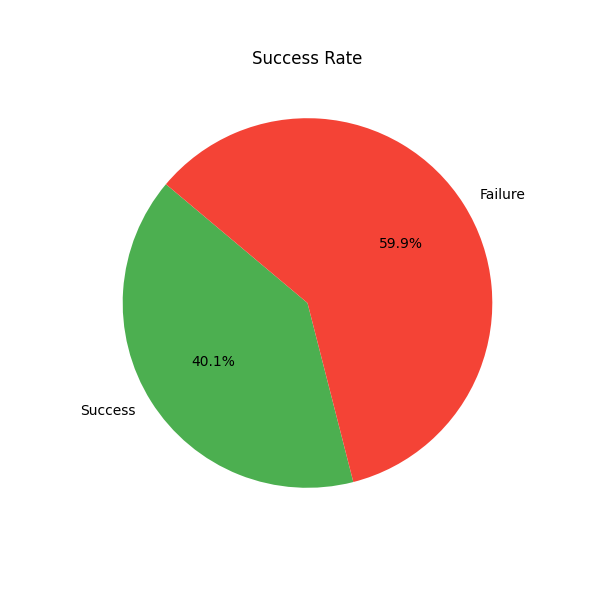
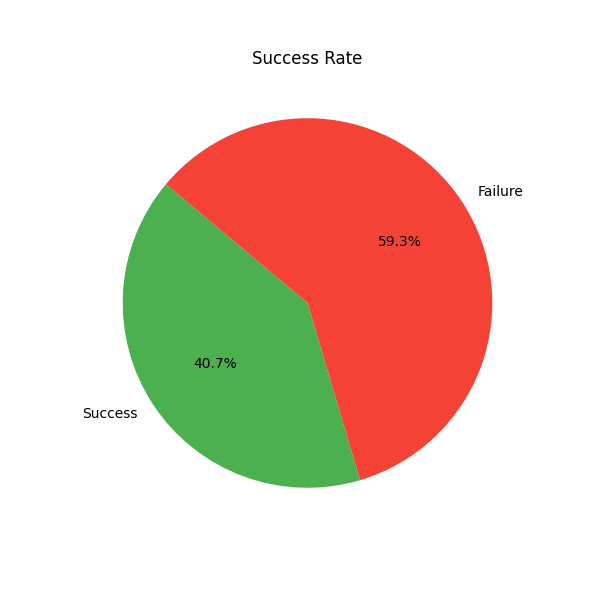
全功能

diff --git a/main.py b/main.py
@@ -277,6 +277,10 @@ def add_shopping_cart():
     if all_items:
         check_shopping_cart(all_items)
 
+def edit_shopping_cart():
+    random.seed(1)
+    all_items = add_products()
+
 def plot_success_rate(results):
     """
     Plot a pie chart for success/failure rate.
@@ -318,3 +322,30 @@ if __name__ == '__main__':
     print("Success array:", success)
     logging.info(f"Final success list: {success}")
     driver.quit()
+
+    opt = Options()
+    opt.add_experimental_option('detach', True)
+    driver = webdriver.Chrome(service=Service('chromedriver.exe'), options=opt)
+    driver.implicitly_wait(10)
+
+    success = []
+    results = []
+    rounds = 50
+    for i in range(rounds):
+        print(i + 1)
+        driver.get('https://magento.softwaretestingboard.com/')
+        seed = 1
+        random.seed(seed)
+        logging.info(f"Round {i+1}: Using seed {seed}")
+
+        edit_shopping_cart()
+        results.append(bTime)
+        driver.delete_all_cookies()  # Clear cookies
+        driver.get('about:blank')
+
+    plot_success_rate(success)
+    print(f"Cover boundary:{bTime} times")
+    print("Success array:", success)
+    logging.info(f"Final success list: {success}")
+    driver.quit()
+

diff --git a/pic.py b/pic.py
@@ -21,7 +21,7 @@ if __name__ == "__main__":
     success = []
     for i in range(1000):
         r = random.randint(1, 100)
-        if r <= 40:
+        if r <= 41:
             success.append(0)
         else:
             success.append(1)
